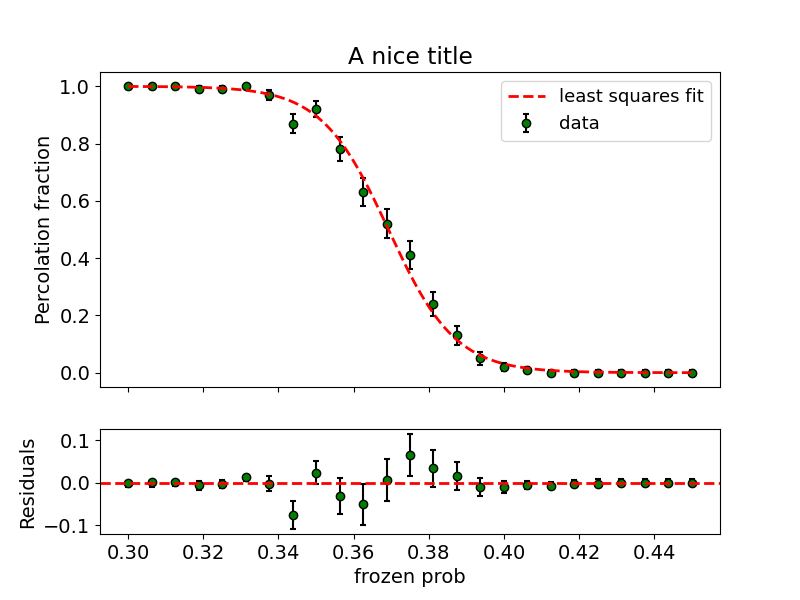
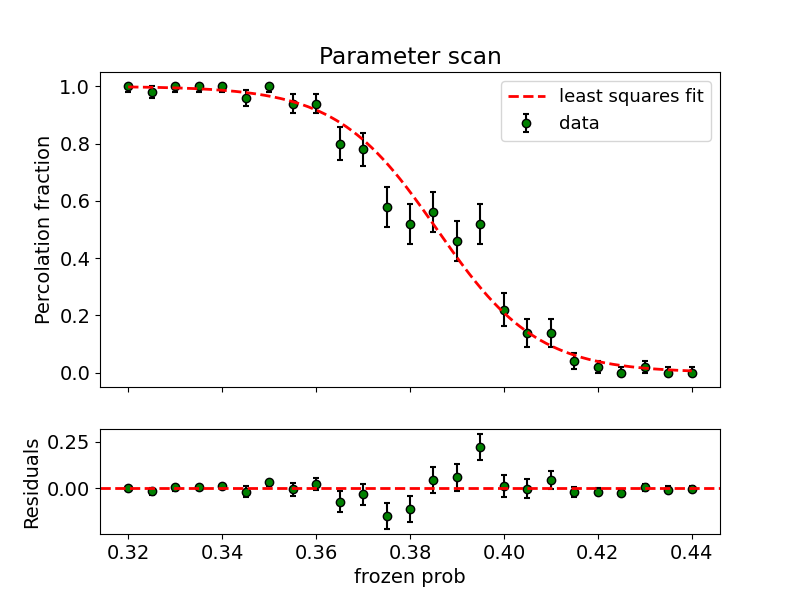
fixed error in boundary masks, updated examples

diff --git a/p1b_percolation/model.py b/p1b_percolation/model.py
@@ -49,7 +49,7 @@ class PercolationModel:
         *,
         transmission_prob=1.0,
         recovery_time=1,
-        recovered_are_frozen=False,
+        recovered_are_frozen=True,
         shuffle_prob=0.0,
         nucleus_size=1,
     ):
@@ -436,7 +436,7 @@ class PercolationModel:
         else:
             plt.show()
 
-    def animate(self, n_steps=-1, interval=25, outpath=None):
+    def animate(self, n_steps=-1, interval=50, dynamic_overlay=False, outpath=None):
         """Evolves the model for `n_steps` iterations and produces an animation.
 
         Inputs
@@ -446,6 +446,10 @@ class PercolationModel:
             nodes, plus 1.
         interval: int (optional)
             Number of millisconds delay between each update.
+        dynamic_overlay: bool (optional)
+            If True, updates the overlay of frozen nodes as well as the live nodes.
+            This is useful if you have set recovered_are_frozen and care about the
+            recovered nodes taking the same colour as the initial frozen ones.
         outpath: str (optional)
             If provided, specifies path to a directory in which the plot will be saved
             as 'animation.gif'.
@@ -486,14 +490,28 @@ class PercolationModel:
             xycoords="axes fraction",
         )
 
-        def loop(t):
+        def loop_without_overlay(t):
             if t == 0:  # otherwise the animation starts a frame late in Jupyter...
-                return (image, overlay)
+                return image, step_counter
+            _ = self._update()
+            image.set_data(self.state)
+            step_counter.set_text(f"Step {t}")
+            return image, step_counter
+
+
+        def loop_with_overlay(t):
+            if t == 0:
+                return image, overlay, step_counter
             _ = self._update()
             image.set_data(self.state)
             overlay.set_data(self.frozen)
             step_counter.set_text(f"Step {t}")
             return image, overlay, step_counter
+
+        if dynamic_overlay:
+            loop = loop_with_overlay
+        else:
+            loop = loop_without_overlay
 
         ani = animation.FuncAnimation(
             fig, loop, frames=n_steps + 1, interval=interval, repeat=False, blit=True

diff --git a/p1b_percolation/lattice.py b/p1b_percolation/lattice.py
@@ -146,12 +146,12 @@ class SquareLattice:
         """
         if self.n_links == 4:
             return ((1, 0), (-1, 0), (1, 1), (-1, 1))
-        elif self.n_links == 3:  # exclude left links
-            return ((1, 0), (-1, 0), (-1, 1))
+        elif self.n_links == 3:  # exclude up links
+            return ((-1, 0), (1, 1), (-1, 1))
         elif self.n_links == 2:  # exclude left and up links
             return ((-1, 0), (-1, 1))
-        else:  # exclude all but right links
-            return ((-1, 1),)
+        else:  # exclude all but bottom links
+            return ((-1, 0),)
 
     @property
     def far_boundary_mask(self):
@@ -159,7 +159,7 @@ class SquareLattice:
         if self.n_links == 4:
             return self.get_boundary_mask(key="all")
         else:
-            return self.get_boundary_mask(key="right")
+            return self.get_boundary_mask(key="bottom")
 
     # ----------------------------------------------------------------------------------------
     #                                                                    | Protected methods |
@@ -178,14 +178,10 @@ class SquareLattice:
         """
         lexi_like_cart = np.arange(self.n_nodes).reshape(self.n_rows, self.n_cols)
 
-        top_row = (lexi_like_cart // self.n_rows == 0).flatten()
-        bottom_row = (
-            lexi_like_cart // self.n_rows == self.n_rows - 1
-        ).flatten()
+        top_row = (lexi_like_cart // self.n_cols == 0).flatten()
+        bottom_row = (lexi_like_cart // self.n_cols == self.n_rows - 1).flatten()
         left_col = (lexi_like_cart % self.n_cols == 0).flatten()
-        right_col = (
-            lexi_like_cart % self.n_cols == self.n_cols - 1
-        ).flatten()
+        right_col = (lexi_like_cart % self.n_cols == self.n_cols - 1).flatten()
         all_boundaries = np.logical_or.reduce(
             (top_row, bottom_row, left_col, right_col)
         )
@@ -279,4 +275,4 @@ class SquareLattice:
             ] = True
             return mask.flatten()
         else:
-            return self.get_boundary_mask(key="left")
+            return self.get_boundary_mask(key="top")

diff --git a/tests/test_lattice.py b/tests/test_lattice.py
@@ -11,7 +11,7 @@ def err_msg(desc, expected, got):
 
 class TestNeighbours:
     def test_four_links(self):
-        lattice = SquareLattice(dimensions=L, n_links=4, periodic=True)
+        lattice = SquareLattice(L, n_links=4, periodic=True)
         desc = (
             "Neighbours array does not match that expected from numpy.roll (isotropic)."
         )
@@ -31,7 +31,7 @@ class TestNeighbours:
         )
 
     def test_three_links(self):
-        lattice = SquareLattice(dimensions=L, n_links=3, periodic=True)
+        lattice = SquareLattice(L, n_links=3, periodic=True)
         desc = "Neighbours array does not match that expected from numpy.roll (down/up/right-directed)."
         expected = np.sort(
             np.concatenate(
@@ -48,7 +48,7 @@ class TestNeighbours:
         )
 
     def test_two_links(self):
-        lattice = SquareLattice(dimensions=L, n_links=2, periodic=True)
+        lattice = SquareLattice(L, n_links=2, periodic=True)
         desc = "Neighbours array does not match that expected from numpy.roll (down/right-directed)."
         expected = np.sort(
             np.concatenate(
@@ -64,7 +64,7 @@ class TestNeighbours:
         )
 
     def test_one_connection(self):
-        lattice = SquareLattice(dimensions=L, n_links=1, periodic=True)
+        lattice = SquareLattice(L, n_links=1, periodic=True)
         desc = "Neighbours array does not match that expected from numpy.roll (right-directed)."
         expected = np.sort(
             np.roll(REFERENCE_LATTICE, shift=-1, axis=1).flatten()
@@ -76,7 +76,7 @@ class TestNeighbours:
 
 
 class TestFixedBoundaries:
-    lattice = SquareLattice(dimensions=L, n_links=4, periodic=False)
+    lattice = SquareLattice(L, n_links=4, periodic=False)
 
     def test_top_left_corner(self):
         desc = "Wrong neighbours at top left corner (fixed boundaries)."

diff --git a/p1b_percolation/scripts/parameter_scan.py b/p1b_percolation/scripts/parameter_scan.py
@@ -84,7 +84,9 @@ def parameter_scan(
         setattr(model, parameter, value)
 
         # Run 'repeats' simulations and record the fraction that percolate
-        percolation_fraction[i] = model.estimate_percolation_prob(repeats, print_result=False)
+        percolation_fraction[i] = model.estimate_percolation_prob(
+            repeats, print_result=False
+        )
 
         pbar.update(repeats)
 
@@ -152,8 +154,8 @@ def parameter_scan(
     if parameter == "frozen_prob" and model.network.n_links == 1:
         rm1 = model.network.n_rows - 1
         cm1 = model.network.n_cols - 1
-        fit_values = 1 - (1 - (1 - fit_x) ** cm1) ** rm1
-        residuals = percolation_fraction - (1 - (1 - (1 - values) ** cm1) ** rm1)
+        fit_values = 1 - (1 - (1 - fit_x) ** rm1) ** cm1
+        residuals = percolation_fraction - (1 - (1 - (1 - values) ** rm1) ** cm1)
         label = "theoretical probability"
 
     # Otherwise we attempt to fit a logistic curve with two parameters
@@ -171,7 +173,7 @@ def parameter_scan(
         e_loc, e_steepness = np.sqrt(pcov.diagonal())
         print(f"Transition occurs at at {loc} +/- {e_loc}")
         print(f"Steepness parameter is {steepness} +/- {e_steepness}")
-        #print(model.network.n_rows, start, stop, loc, e_loc, steepness, e_steepness)
+        # print(model.network.n_rows, start, stop, loc, e_loc, steepness, e_steepness)
 
         fit_values = logistic(fit_x, loc=loc, steepness=steepness)
         residuals = percolation_fraction - logistic(

diff --git a/p1b_percolation/config.py b/p1b_percolation/config.py
@@ -58,7 +58,8 @@ parser.add(
 )
 parser.add(
     "--recovered-are-frozen",
-    action="store_true",
+    type=bool,
+    default=True,
     help="nodes which have recovered are flagged as frozen",
 )
 parser.add(
@@ -82,14 +83,20 @@ parser.add(
 )
 parser.add(
     "--periodic",
-    action="store_false",
+    type=bool,
+    default=True,
     help="periodic boundary conditions on the lattice",
 )
 parser.add(
     "--interval",
     type=int,
-    default=25,
+    default=50,
     help="number of milliseconds delay between each update in the animation",
+)
+parser.add(
+    "--dynamic-overlay",
+    action="store_true",
+    help="updates the overlay of frozen nodes at each step in the animation",
 )
 parser.add(
     "--reproducible",

diff --git a/p1b_percolation/scripts/shell_scripts.py b/p1b_percolation/scripts/shell_scripts.py
@@ -37,7 +37,12 @@ MODEL = load_model()
 
 def anim():
 
-    MODEL.animate(n_steps=ARGS.steps, interval=ARGS.interval, outpath=ARGS.outpath)
+    MODEL.animate(
+        n_steps=ARGS.steps,
+        interval=ARGS.interval,
+        dynamic_overlay=ARGS.dynamic_overlay,
+        outpath=ARGS.outpath,
+    )
     MODEL.plot_sir(outpath=ARGS.outpath)
 
 
